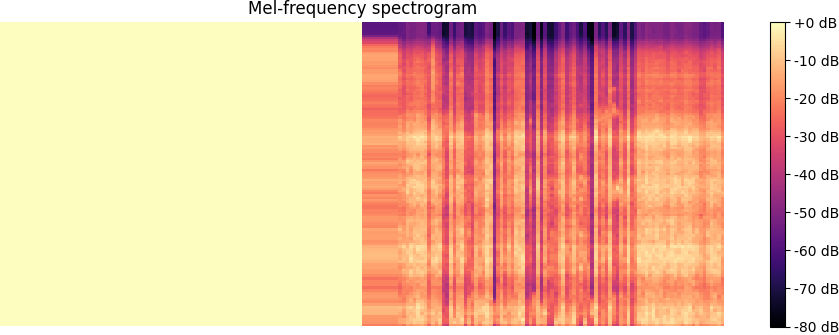
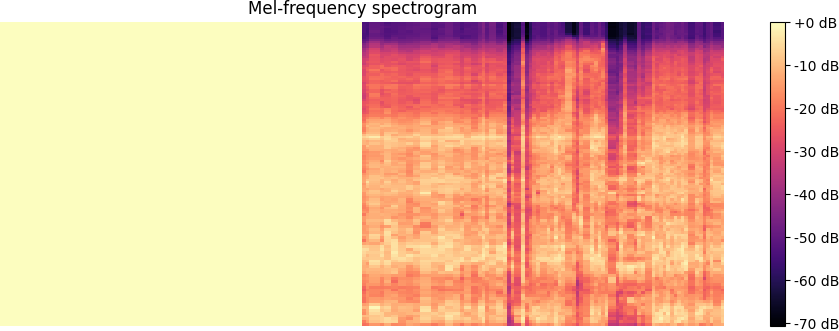
hotfix

diff --git a/main.py b/main.py
@@ -62,7 +62,7 @@ class MarineMammalRecognizer(tk.Tk):
         # Initialize matplotlib figure and axes
         self.fig, self.ax = plt.subplots()
         self.spectr_data = np.zeros((n_mels, int(fs / (chunk_size - overlap_size) * duration)))
-        self.im = self.ax.imshow(self.spectr_data, aspect='auto', origin='lower', extent=[0, duration, 0, fs/2])
+        self.im = self.ax.imshow(self.spectr_data, aspect='auto', origin='lower', extent=[0, duration, 0, fs/2], cmap='magma')
         plt.colorbar(self.im, ax=self.ax)
         self.ax.set_xlabel('Time [s]')
         self.ax.set_ylabel('Frequency [Hz]')
@@ -71,6 +71,9 @@ class MarineMammalRecognizer(tk.Tk):
         # Create a canvas for the matplotlib figure
         self.canvas = FigureCanvasTkAgg(self.fig, master=self)
         self.canvas.get_tk_widget().pack()
+
+        self.output_path = "Live"
+        self.probka = []
 
     def load_image(self):
         file_path = filedialog.askopenfilename()
@@ -81,13 +84,8 @@ class MarineMammalRecognizer(tk.Tk):
             self.image_label.config(image=self.image_tk)
             self.result_label.config(text="")
 
-    def predict_species(self):
-        if hasattr(self, 'image'):
-            # Przygotuj obraz do przewidywania
-            image_array = np.array(self.image.resize((128, 128))) / 255.0
-            image_array = np.expand_dims(image_array, axis=-1)
-            image_array = np.expand_dims(image_array, axis=0)
-
+    def predict_species(self, image_array):
+        if image_array is not None:
             # Przewidywanie
             predictions = self.model.predict(image_array)
             confidence = np.max(predictions)
@@ -101,7 +99,7 @@ class MarineMammalRecognizer(tk.Tk):
             else:
                 self.result_label.config(text=f"Rozpoznany gatunek: {species_name} (Pewność: {confidence:.2f})")
         else:
-            messagebox.showerror("Błąd", "Najpierw wybierz obraz spektrogramu")
+            messagebox.showerror("Błąd", "Brak danych do rozpoznania")
 
     def start_live_recognition(self):
         start_live_recognition()
@@ -127,10 +125,11 @@ class MarineMammalRecognizer(tk.Tk):
 
     def draw_probka(self, spectr, output_path, number):
         plt.figure(figsize=(10, 4))
-        librosa.display.specshow(spectr, sr=fs, x_axis='time', y_axis='mel')
+        librosa.display.specshow(spectr, sr=fs, x_axis='time', y_axis='mel', cmap='magma')
         plt.colorbar(format='%+2.0f dB')
         plt.title('Mel-frequency spectrogram')
         plt.tight_layout()
+        plt.axis('off')
         filename = f"{number}.png"
         file_path = os.path.join(output_path, filename)
         os.makedirs(output_path, exist_ok=True)
@@ -138,16 +137,19 @@ class MarineMammalRecognizer(tk.Tk):
         plt.close()
 
     def update_plot(self, frame, sr=fs):
-        self.output_path = "Live"
-        self.probka = []
         while not data_queue.empty():
             data = data_queue.get()
             S_DB = self.create_spectrogram(data, sr=sr)
             self.spectr_data = np.roll(self.spectr_data, -1, axis=1)  # przesuwa wykres w lewo
             self.spectr_data[:, -1] = S_DB.mean(axis=1)
-            self.probka.append(self.spectr_data[:, -100:].copy())
-            if len(self.probka) % 10 == 0:
+            self.probka.append(self.spectr_data[:, -200:].copy())
+            print(f"Mamy {len(self.probka)} próbek")
+            if len(self.probka) % 100 == 0:
                 self.draw_probka(self.probka[-1], self.output_path, len(self.probka))
+                image_array = self.spectr_data[:, -128:].T
+                image_array = np.expand_dims(image_array, axis=-1)
+                image_array = np.expand_dims(image_array, axis=0)
+                self.predict_species(image_array)
             self.im.set_data(self.spectr_data)
             self.im.set_clim(vmin=np.min(self.spectr_data), vmax=np.percentile(self.spectr_data, 95))
             self.canvas.draw()

diff --git a/live_odczyt.py b/live_odczyt.py
@@ -75,6 +75,7 @@ def update_plot(frame, sr=fs):
         spectr_data = np.roll(spectr_data, -1, axis=1)  # przesuwa wykres w lewo
         spectr_data[:, -1] = S_DB.mean(axis=1)
         probka.append(spectr_data[:, -200:].copy())
+        print(f"Mamy {len(probka)} próbek")
         if len(probka) % 100 == 0:
             draw_probka(probka[-1], output_path, len(probka))
             sluchanie()
